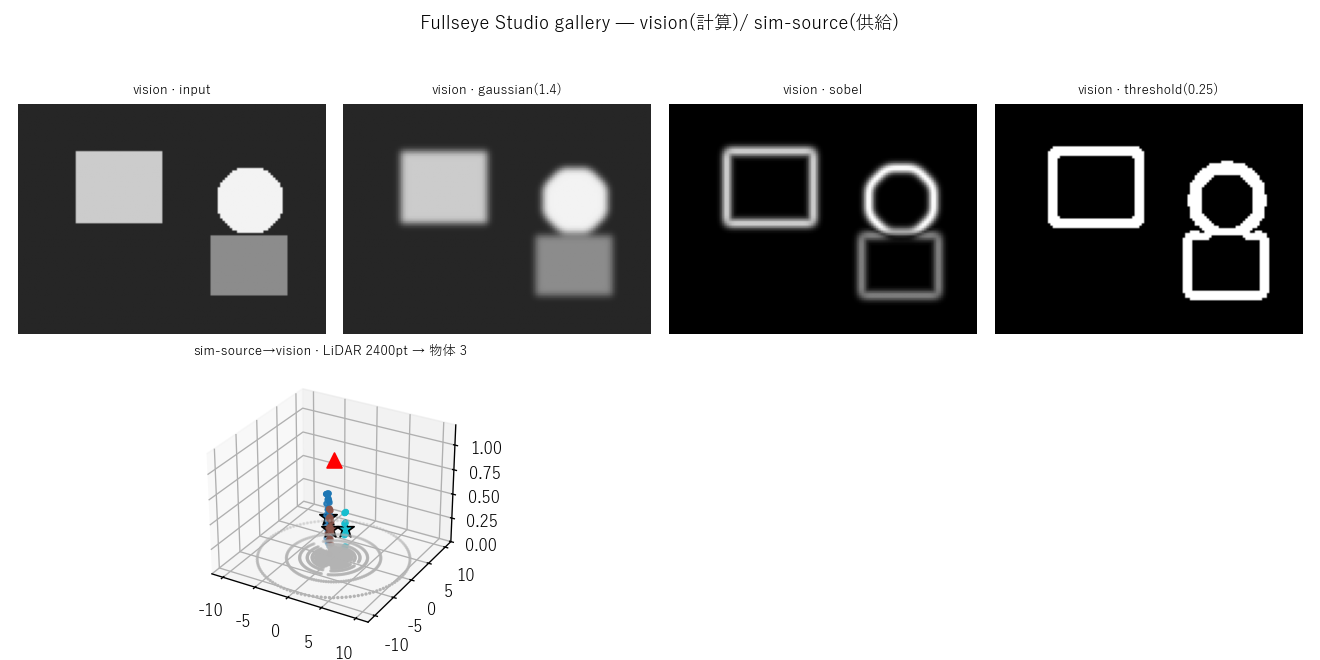
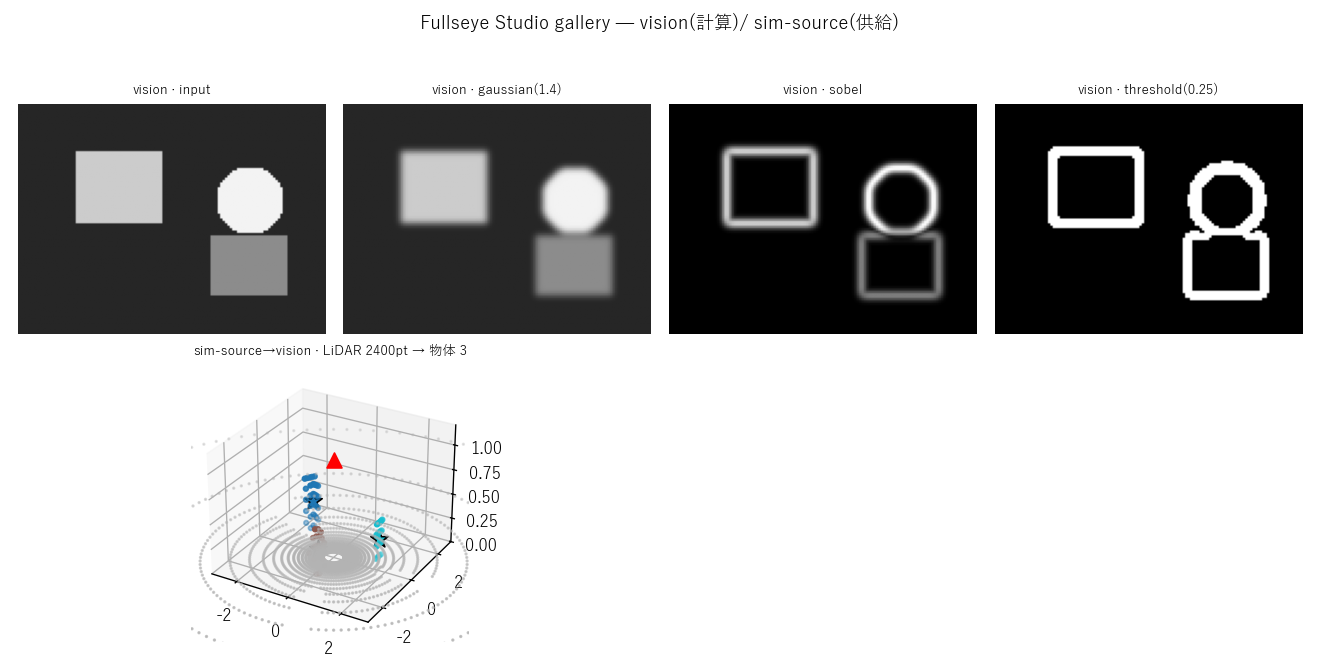
auto: studio_app.py 編集前 (2026-08-18 07:23)

Changed region(s): [[0.1553, 0.6061, 0.3727, 1.0], [0.1553, 0.9091, 0.1864, 0.9394]]

diff --git a/spikes/studio_app.py b/spikes/studio_app.py
@@ -1,0 +1,232 @@
+"""Fullseye Studio — 最小骨組み(PySide6 + matplotlib 埋め込み).
+
+ユーザーの理想(2026-08-18):「私が走らせて実際に動いている姿が見れる環境」の GUI 版。
+HDevelop 風の 3 ペイン: 左=サンプル一覧(domain 別) / 中=コード編集 / 右=描画ペイン。
+**サンプルを選ぶ→コードが出る→Run で即描画。コードを編集して Run すれば結果が変わる**
+(= HDevelop の肝。exec ベースの素朴実装だが「書く→走らせる→見る」ループが閉じる)。
+
+  実行(GUI):   PYTHONPATH=. py -3.11 spikes/studio_app.py
+  smoke(無表示): PYTHONPATH=. QT_QPA_PLATFORM=offscreen py -3.11 spikes/studio_app.py --smoke
+
+★棲み分け(既存 spike と一貫): vision=fullseye が計算 / sim-source=物理が供給。
+★これは additive な spike(既存 809 op 無変更・throwaway 可)。将来 packages/studio/ へ昇格。
+"""
+from __future__ import annotations
+
+import sys
+import traceback
+from pathlib import Path
+
+import numpy as np
+
+import matplotlib
+from matplotlib import font_manager
+from matplotlib.backends.backend_qtagg import FigureCanvasQTAgg, NavigationToolbar2QT
+from matplotlib.figure import Figure
+
+from PySide6 import QtWidgets, QtGui
+
+sys.path.insert(0, str(Path(__file__).resolve().parent))
+import lidar_adapter_spike as _sim  # noqa: E402
+import unified_api_spike as _vis  # noqa: E402
+import fullseye as fs  # noqa: E402
+
+# 日本語フォント(既定 DejaVu Sans は CJK 無し)。
+for _jp in ("Yu Gothic", "Meiryo", "MS Gothic"):
+    if _jp in {f.name for f in font_manager.fontManager.ttflist}:
+        matplotlib.rcParams["font.family"] = _jp
+        break
+matplotlib.rcParams["axes.unicode_minus"] = False
+
+
+def synthetic_scene(h: int = 96, w: int = 128) -> np.ndarray:
+    """エッジがはっきり見える合成グレー画像(矩形 2 + 円)。"""
+    img = np.full((h, w), 0.15)
+    img[20:50, 24:60] = 0.8
+    img[55:80, 80:112] = 0.55
+    yy, xx = np.mgrid[0:h, 0:w]
+    img[(yy - 40) ** 2 + (xx - 96) ** 2 < 14 ** 2] = 0.95
+    return img
+
+
+# ── サンプル(name, domain, 実行可能コード)──────────────────────────────────── #
+# コードは名前空間(fig/np/fs/Image/sim/LidarPattern/SCENE/synthetic_scene)の下で exec され、
+# fig に subplot を足して描画する契約。編集して Run すれば結果が変わる。
+_IMAGE_CHAIN = '''\
+# vision: 画像チェーン(編集して Run できます。sigma や threshold を変えてみて)
+img = synthetic_scene()
+chain = [
+    ("input",           img),
+    ("gaussian(1.4)",   Image(img).gaussian(1.4).array),
+    ("sobel",           Image(img).gaussian(1.4).sobel().array),
+    ("threshold(0.25)", Image(img).gaussian(1.4).sobel().threshold(0.25).array),
+]
+for i, (title, arr) in enumerate(chain):
+    ax = fig.add_subplot(2, 2, i + 1)
+    ax.imshow(arr, cmap="gray", vmin=0, vmax=1)
+    ax.set_title(title, fontsize=9); ax.axis("off")
+'''
+
+_CLOUD_PERCEIVE = '''\
+# vision: 点群から床を除去して物体クラスタを取り出す
+rng = np.random.default_rng(0)
+xs, ys = np.meshgrid(np.linspace(-1, 1, 30), np.linspace(-1, 1, 30))
+floor = np.column_stack([xs.ravel(), ys.ravel(), np.zeros(xs.size)])
+blob = rng.normal([0.4, 0.4, 0.5], 0.03, (60, 3))
+pts = np.vstack([floor + rng.normal(0, 0.002, floor.shape), blob])
+ng, gmask = fs.remove_ground(pts, thresh=0.03)
+clusters = fs.euclidean_clusters(ng, tol=0.1, min_size=5)
+ax = fig.add_subplot(111, projection="3d")
+ax.scatter(pts[gmask][:, 0], pts[gmask][:, 1], pts[gmask][:, 2], s=2, c="0.7")
+for idx in clusters:
+    c = ng[idx]; ax.scatter(c[:, 0], c[:, 1], c[:, 2], s=12)
+    cen = fs.centroid(c); ax.scatter(*cen, s=120, marker="*", edgecolor="k")
+ax.set_title(f"床除去 {int(gmask.sum())} 点 -> 物体 {len(clusters)}", fontsize=9)
+'''
+
+_SIM_LIDAR = '''\
+# sim-source: 物理エンジンから LiDAR 1 スキャン(点群を得る)
+scene = sim.MuJoCo(SCENE)
+pts = scene.lidar(origin=(0, 0, 1.0), pattern=LidarPattern(h_res=120, v_res=24))
+ax = fig.add_subplot(111, projection="3d")
+p = ax.scatter(pts[:, 0], pts[:, 1], pts[:, 2], s=2, c=pts[:, 2], cmap="viridis")
+ax.scatter(0, 0, 1.0, s=80, marker="^", color="red")
+ax.set_xlim(-3, 3); ax.set_ylim(-3, 3); ax.set_zlim(0, 1.2); ax.view_init(28, -60)
+ax.set_title(f"LiDAR ヒット {len(pts)} 点(真値・GL 不要)", fontsize=9)
+'''
+
+_SIM_TO_VISION = '''\
+# sim-source -> vision: LiDAR 点群を fullseye 知覚 op に渡す分業ループ
+import matplotlib.pyplot as _plt
+scene = sim.MuJoCo(SCENE)
+pts = scene.lidar(origin=(0, 0, 1.0))            # 物理が供給
+ng, gmask = fs.remove_ground(pts, thresh=0.03)   # fullseye が計算
+clusters = fs.euclidean_clusters(ng, tol=0.25, min_size=5)
+ax = fig.add_subplot(111, projection="3d")
+ax.scatter(pts[gmask][:, 0], pts[gmask][:, 1], pts[gmask][:, 2], s=1, c="0.7")
+cols = _plt.cm.tab10(np.linspace(0, 1, max(len(clusters), 1)))
+for i, idx in enumerate(clusters):
+    c = ng[idx]; ax.scatter(c[:, 0], c[:, 1], c[:, 2], s=8, color=cols[i])
+    cen = fs.centroid(c); ax.scatter(*cen, s=140, marker="*", color=cols[i], edgecolor="k")
+ax.scatter(0, 0, 1.0, s=80, marker="^", color="red")
+ax.set_xlim(-3, 3); ax.set_ylim(-3, 3); ax.set_zlim(0, 1.2); ax.view_init(28, -60)
+ax.set_title(f"sim LiDAR -> 床除去 -> 物体 {len(clusters)}", fontsize=9)
+'''
+
+SAMPLES = [
+    ("image.chain", "vision", _IMAGE_CHAIN),
+    ("cloud.perceive", "vision", _CLOUD_PERCEIVE),
+    ("sim.lidar", "sim-source", _SIM_LIDAR),
+    ("sim.to_vision", "sim-source", _SIM_TO_VISION),
+]
+
+
+class StudioWindow(QtWidgets.QMainWindow):
+    def __init__(self) -> None:
+        super().__init__()
+        self.setWindowTitle("Fullseye Studio (prototype)")
+        self.resize(1180, 640)
+
+        # 左: サンプル一覧(domain 別ツリー)
+        self.tree = QtWidgets.QTreeWidget()
+        self.tree.setHeaderLabels(["samples"])
+        self.tree.setMinimumWidth(210)
+        groups: dict[str, QtWidgets.QTreeWidgetItem] = {}
+        for name, domain, code in SAMPLES:
+            if domain not in groups:
+                g = QtWidgets.QTreeWidgetItem(self.tree, [domain])
+                g.setExpanded(True)
+                groups[domain] = g
+            item = QtWidgets.QTreeWidgetItem(groups[domain], [name])
+            item.setData(0, 0x0100, code)  # Qt.UserRole
+        self.tree.itemSelectionChanged.connect(self._on_select)
+
+        # 中: コード編集 + Run
+        self.editor = QtWidgets.QPlainTextEdit()
+        self.editor.setFont(QtGui.QFont("Consolas", 10))
+        self.editor.setMinimumWidth(360)
+        run_btn = QtWidgets.QPushButton("Run  ▶")
+        run_btn.clicked.connect(self._run)
+        mid = QtWidgets.QWidget()
+        ml = QtWidgets.QVBoxLayout(mid)
+        ml.addWidget(QtWidgets.QLabel("code(編集して Run)"))
+        ml.addWidget(self.editor)
+        ml.addWidget(run_btn)
+
+        # 右: matplotlib 描画ペイン
+        self.figure = Figure(figsize=(5, 4))
+        self.canvas = FigureCanvasQTAgg(self.figure)
+        right = QtWidgets.QWidget()
+        rl = QtWidgets.QVBoxLayout(right)
+        rl.addWidget(NavigationToolbar2QT(self.canvas, right))
+        rl.addWidget(self.canvas)
+
+        split = QtWidgets.QSplitter()
+        split.addWidget(self.tree)
+        split.addWidget(mid)
+        split.addWidget(right)
+        split.setSizes([210, 380, 590])
+        self.setCentralWidget(split)
+        self.statusBar().showMessage("サンプルを選んで Run")
+
+        # 初期選択
+        first = groups["vision"].child(0)
+        self.tree.setCurrentItem(first)
+
+    def _on_select(self) -> None:
+        items = self.tree.selectedItems()
+        if items and items[0].data(0, 0x0100):
+            self.editor.setPlainText(items[0].data(0, 0x0100))
+            self._run()
+
+    def _run(self) -> None:
+        code = self.editor.toPlainText()
+        self.figure.clear()
+        ns = {
+            "fig": self.figure, "np": np, "fs": fs,
+            "Image": _vis.Image, "sim": _sim.sim, "LidarPattern": _sim.LidarPattern,
+            "SCENE": _sim.SCENE, "synthetic_scene": synthetic_scene,
+        }
+        try:
+            exec(code, ns)  # noqa: S102 — ローカル GUI・ユーザー自身のコード
+            self.canvas.draw()
+            self.statusBar().showMessage("Run OK")
+        except Exception:
+            self.statusBar().showMessage("Run 失敗(下部トレース)")
+            self.figure.clear()
+            ax = self.figure.add_subplot(111)
+            ax.text(0.02, 0.98, traceback.format_exc(), fontsize=7, va="top", family="monospace")
+            ax.axis("off")
+            self.canvas.draw()
+
+
+def _smoke() -> int:
+    """無表示で全サンプルを描画実行し、例外が無いことを確認(CI/検証用)。"""
+    app = QtWidgets.QApplication.instance() or QtWidgets.QApplication([])
+    win = StudioWindow()
+    ok = 0
+    for name, _domain, code in SAMPLES:
+        win.editor.setPlainText(code)
+        win._run()
+        msg = win.statusBar().currentMessage()
+        print(f"  {name:16s} -> {msg}")
+        ok += msg == "Run OK"
+    out = Path(__file__).resolve().parent / "out_gallery" / "studio_app_smoke.png"
+    out.parent.mkdir(exist_ok=True)
+    win.figure.savefig(out, dpi=110)
+    print(f"[smoke] {ok}/{len(SAMPLES)} OK, last render -> {out}")
+    app.quit()
+    return 0 if ok == len(SAMPLES) else 1
+
+
+def main() -> None:
+    if "--smoke" in sys.argv:
+        raise SystemExit(_smoke())
+    app = QtWidgets.QApplication(sys.argv)
+    win = StudioWindow()
+    win.show()
+    sys.exit(app.exec())
+
+
+if __name__ == "__main__":
+    main()

diff --git a/spikes/studio_gallery.py b/spikes/studio_gallery.py
@@ -88,7 +88,7 @@ def _panel_lidar_perceive(fig) -> None:
         ax.scatter(*cen, s=120, marker="*", color=colors[i], edgecolor="k")
     ax.scatter(0, 0, 1.0, s=80, marker="^", color="red")  # sensor
     ax.set_title(f"sim-source→vision · LiDAR {len(pts)}pt → 物体 {len(clusters)}", fontsize=8)
-    ax.set_zlim(0, 1.2)
+    ax.set_xlim(-3, 3); ax.set_ylim(-3, 3); ax.set_zlim(0, 1.2)
     ax.view_init(elev=28, azim=-60)
 
 

diff --git a/docs/SESSION_SUMMARY.md b/docs/SESSION_SUMMARY.md
@@ -3,13 +3,15 @@
 > 自動生成: `libexec/raptor-auto-summary` (Stop hook)
 > 次回 ccr 起動時に CLAUDE.md SESSION START で自動的に読み取られる。
 
-- **最終更新**: 2026-08-18 07:15:02
+- **最終更新**: 2026-08-18 07:18:25
 - **プロジェクト**: `C:/dev/projects/imgevolve`
 - **ブランチ**: `master`
 
 ## 直近の git log
 
 ```
+65aa05d auto: studio_gallery.py 編集前 (2026-08-18 07:17)
+039b8bb auto: studio_gallery.py 編集前 (2026-08-18 07:17)
 963b9c3 auto: UNIFIED_API_REQUIREMENTS.md 編集前 (2026-08-18 07:14)
 c7de425 auto: EVIS_VISION_OSS_GAP.md 編集前 (2026-08-18 06:36)
 e987a11 auto: UNIFIED_API_REQUIREMENTS.md 編集前 (2026-08-18 06:36)
@@ -18,23 +20,25 @@ e987a11 auto: UNIFIED_API_REQUIREMENTS.md 編集前 (2026-08-18 06:36)
 db0e562 auto: UNIFIED_API_REQUIREMENTS.md 編集前 (2026-08-18 06:33)
 2c6e539 auto: UNIFIED_API_REQUIREMENTS.md 編集前 (2026-08-18 06:33)
 aa0b026 auto: EVIS_VISION_OSS_GAP.md 編集前 (2026-08-18 06:33)
-fac0e21 auto: UNIFIED_API_REQUIREMENTS.md 編集前 (2026-08-18 06:08)
-210a916 auto: unified_api_spike.py 編集前 (2026-08-18 06:07)
 ```
 
 ## 現在の git status
 
 ```
-M docs/UNIFIED_API_REQUIREMENTS.md
+M spikes/out_gallery/studio_gallery.png
+ M spikes/studio_gallery.py
 ```
 
 ## 直近 2 時間に変更されたファイル
 
 ```
+07:17 spikes/out_gallery/studio_lidar_sweep.gif
+07:17 spikes/out_gallery/studio_gallery.png
+07:17 spikes/studio_gallery.py
+07:15 docs/SESSION_SUMMARY.md
 07:14 docs/UNIFIED_API_REQUIREMENTS.md
 07:14 spikes/studio_sample_catalog.py
 07:12 spikes/lidar_adapter_spike.py
-07:10 docs/SESSION_SUMMARY.md
 06:36 docs/EVIS_VISION_OSS_GAP.md
 06:07 spikes/unified_api_spike.py
 ```
